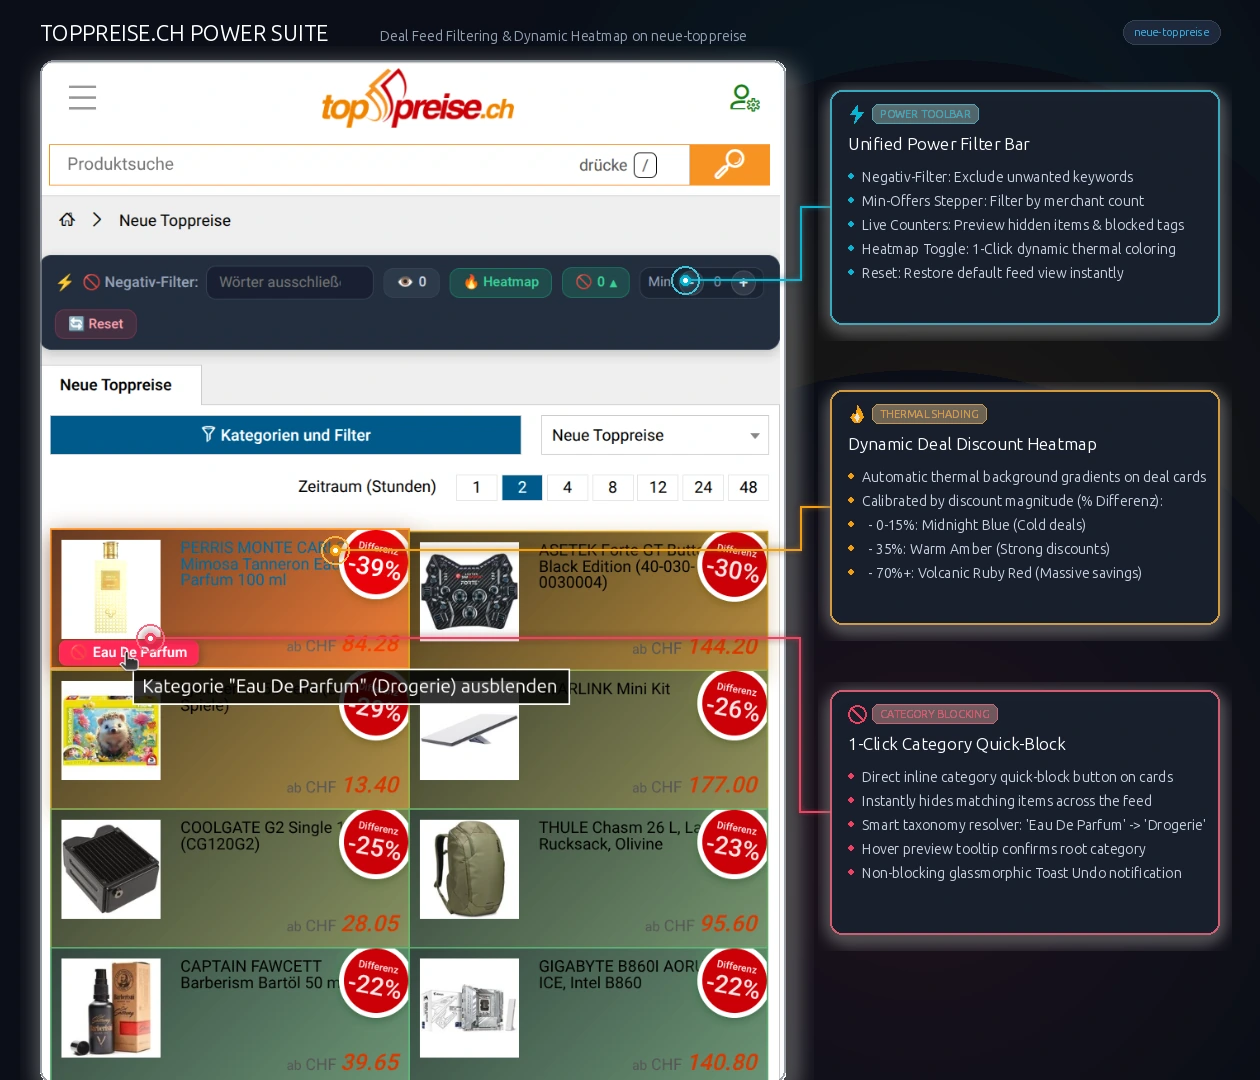
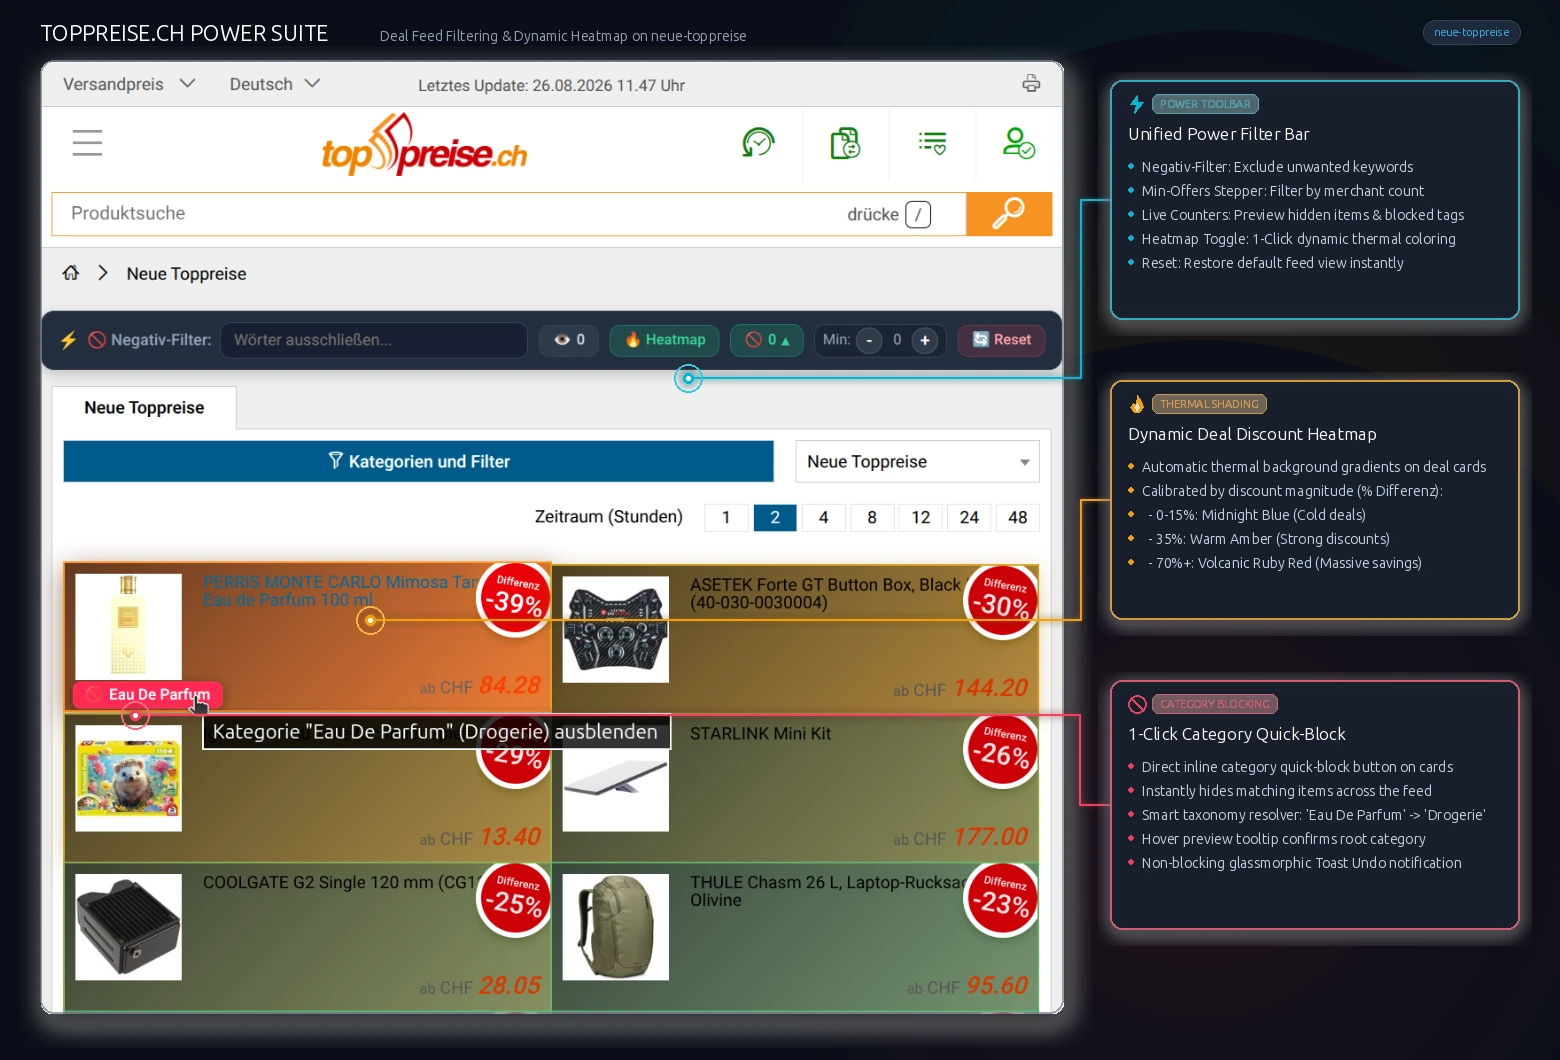
refactor: update screenshot annotation script for 1024x954 dimensions and refresh infographic assets

diff --git a/scratch/annotate_toppreise.py b/scratch/annotate_toppreise.py
@@ -1,9 +1,9 @@
 #!/usr/bin/env python3
 """
-Annotate Toppreise screenshot focusing strictly on features visible on neue-toppreise:
-1. Power Filter Toolbar (Negative keyword filtering, Min offers, Counters)
-2. Rabatt-Heatmap (Dynamic thermal deal shading)
-3. 1-Click Category Quick-Block & Smart Taxonomy Tooltip
+Annotate Toppreise screenshot (wide 1024x954) focusing strictly on visible features:
+1. Unified Power Filter Bar
+2. Dynamic Deal Discount Heatmap
+3. 1-Click Category Quick-Block & Smart Taxonomy
 """
 
 from PIL import Image, ImageDraw, ImageFont, ImageFilter
@@ -46,28 +46,28 @@ def draw_vector_icon(draw, icon_type, x, y, size, color):
 
 def create_annotated_screenshot(src_path, output_png, output_webp):
     orig = Image.open(src_path).convert("RGBA")
-    orig_w, orig_h = orig.size  # 746 x 1024
+    orig_w, orig_h = orig.size  # 1024 x 954
 
     # Canvas dimensions
-    canvas_w = 1260
-    canvas_h = 1080
+    canvas_w = 1560
+    canvas_h = 1060
     
     # Base dark background
     canvas = Image.new("RGBA", (canvas_w, canvas_h), (10, 14, 23, 255))
     
-    # Subtle ambient glows
+    # Ambient glows
     glow_overlay = Image.new("RGBA", (canvas_w, canvas_h), (0, 0, 0, 0))
     glow_draw = ImageDraw.Draw(glow_overlay)
     
-    for r in range(450, 0, -15):
-        alpha = int(22 * (1 - r / 450))
-        glow_draw.ellipse([920 - r, 200 - r, 920 + r, 200 + r], fill=(6, 182, 212, alpha))
-    for r in range(450, 0, -15):
-        alpha = int(24 * (1 - r / 450))
-        glow_draw.ellipse([950 - r, 510 - r, 950 + r, 510 + r], fill=(245, 158, 11, alpha))
-    for r in range(450, 0, -15):
-        alpha = int(24 * (1 - r / 450))
-        glow_draw.ellipse([920 - r, 820 - r, 920 + r, 820 + r], fill=(244, 63, 94, alpha))
+    for r in range(480, 0, -15):
+        alpha = int(22 * (1 - r / 480))
+        glow_draw.ellipse([1200 - r, 200 - r, 1200 + r, 200 + r], fill=(6, 182, 212, alpha))
+    for r in range(480, 0, -15):
+        alpha = int(24 * (1 - r / 480))
+        glow_draw.ellipse([1220 - r, 510 - r, 1220 + r, 510 + r], fill=(245, 158, 11, alpha))
+    for r in range(480, 0, -15):
+        alpha = int(24 * (1 - r / 480))
+        glow_draw.ellipse([1200 - r, 820 - r, 1200 + r, 820 + r], fill=(244, 63, 94, alpha))
 
     canvas = Image.alpha_composite(canvas, glow_overlay)
     draw = ImageDraw.Draw(canvas)
@@ -176,9 +176,9 @@ def create_annotated_screenshot(src_path, output_png, output_webp):
 
         canvas.paste(card_img, (x, y), card_img)
 
-    # 1. Unified Filter Toolbar (Target: Negativ-Filter input & toolbar controls at sc_x + 645, sc_y + 220)
+    # 1. Unified Filter Toolbar (Target: Reset & Toolbar controls at sc_x + 648, sc_y + 318)
     draw_callout_box(
-        x=830, y=90, w=390, h=235,
+        x=1110, y=80, w=410, h=240,
         icon_name="bolt",
         tag="POWER TOOLBAR",
         tag_color=(6, 182, 212, 255),
@@ -190,13 +190,13 @@ def create_annotated_screenshot(src_path, output_png, output_webp):
             "Heatmap Toggle: 1-Click dynamic thermal coloring",
             "Reset: Restore default feed view instantly"
         ],
-        pointer_target=(sc_x + 645, sc_y + 220),
+        pointer_target=(sc_x + 648, sc_y + 318),
         line_color=(6, 182, 212, 255)
     )
 
-    # 2. Rabatt-Heatmap (Target: -39% glowing amber background at sc_x + 295, sc_y + 490)
+    # 2. Rabatt-Heatmap (Target: -39% discount badge & glowing amber background at sc_x + 330, sc_y + 560)
     draw_callout_box(
-        x=830, y=390, w=390, h=235,
+        x=1110, y=380, w=410, h=240,
         icon_name="flame",
         tag="THERMAL SHADING",
         tag_color=(245, 158, 11, 255),
@@ -208,13 +208,13 @@ def create_annotated_screenshot(src_path, output_png, output_webp):
             "  - 35%: Warm Amber (Strong discounts)",
             "  - 70%+: Volcanic Ruby Red (Massive savings)"
         ],
-        pointer_target=(sc_x + 295, sc_y + 490),
+        pointer_target=(sc_x + 330, sc_y + 560),
         line_color=(245, 158, 11, 255)
     )
 
-    # 3. 1-Click Inline Category Quick-Block & Tooltip (Target: Pink 'Eau De Parfum' pill button at sc_x + 110, sc_y + 578)
+    # 3. 1-Click Inline Category Quick-Block & Tooltip (Target: Pink 'Eau De Parfum' pill button at sc_x + 95, sc_y + 655)
     draw_callout_box(
-        x=830, y=690, w=390, h=245,
+        x=1110, y=680, w=410, h=250,
         icon_name="ban",
         tag="CATEGORY BLOCKING",
         tag_color=(244, 63, 94, 255),
@@ -226,17 +226,17 @@ def create_annotated_screenshot(src_path, output_png, output_webp):
             "Hover preview tooltip confirms root category",
             "Non-blocking glassmorphic Toast Undo notification"
         ],
-        pointer_target=(sc_x + 110, sc_y + 578),
+        pointer_target=(sc_x + 95, sc_y + 655),
         line_color=(244, 63, 94, 255)
     )
 
     # Save output
     canvas.save(output_png, "PNG", optimize=True)
     canvas.save(output_webp, "WEBP", quality=92, method=6)
-    print(f"Successfully regenerated focused screenshot infographic:\n- {output_png}\n- {output_webp}")
+    print(f"Successfully generated wide screenshot infographic:\n- {output_png}\n- {output_webp}")
 
 if __name__ == "__main__":
-    src = "/home/tazztone/.gemini/antigravity-ide/brain/d8407f79-485a-4ba0-bf03-ae441b553729/.user_uploaded/media_1787738061497.png"
+    src = "/home/tazztone/.gemini/antigravity-ide/brain/d8407f79-485a-4ba0-bf03-ae441b553729/.user_uploaded/media_1787743263048.png"
     out_png = "/home/tazztone/_coding/scripts/userscripts/toppreise/Screenshot.png"
     out_webp = "/home/tazztone/_coding/scripts/userscripts/toppreise/Screenshot.webp"
     create_annotated_screenshot(src, out_png, out_webp)
